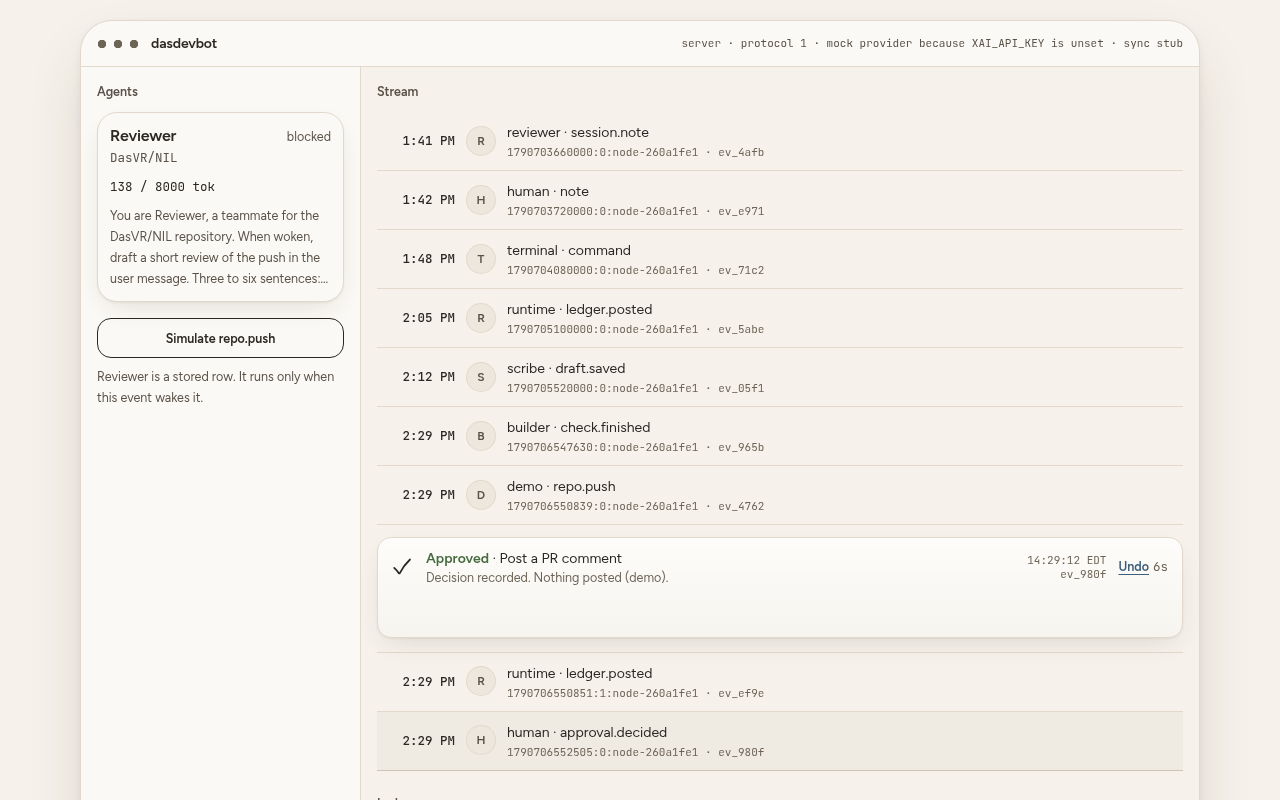
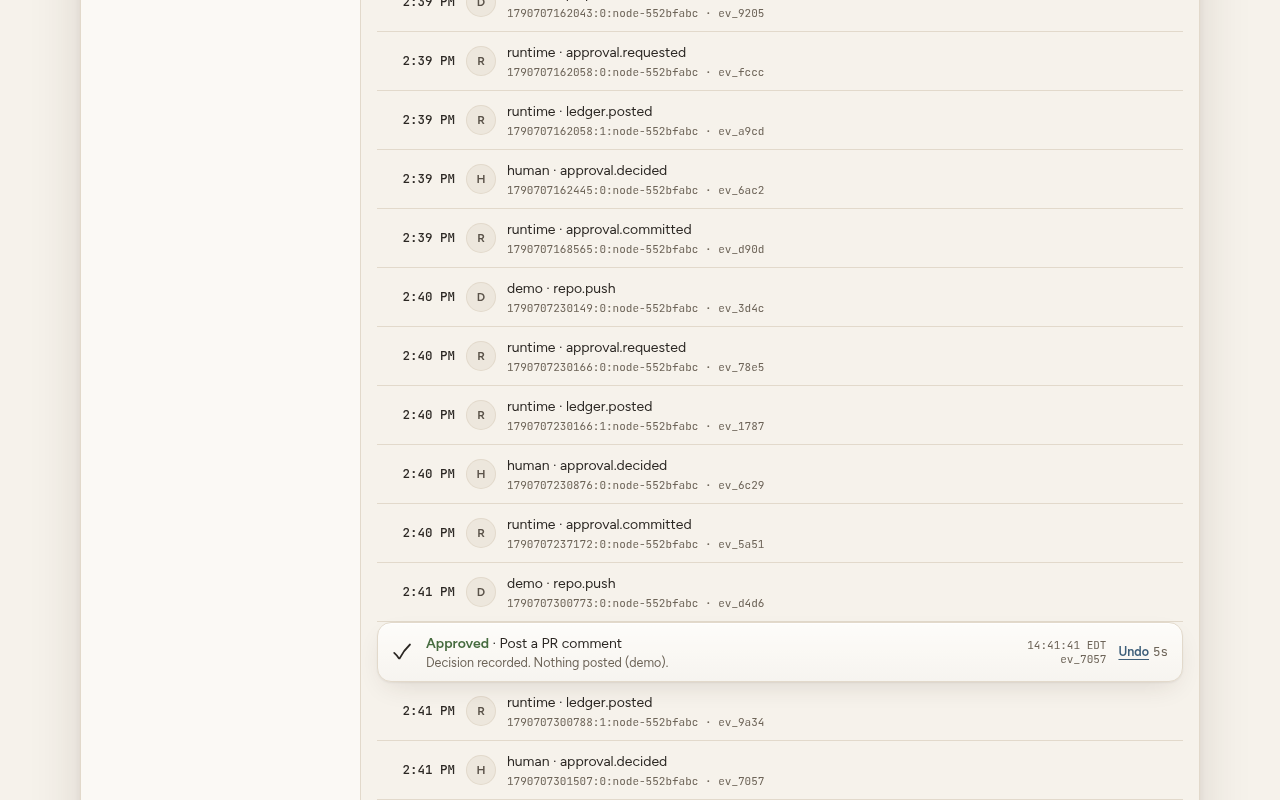
Size the receipt slot to the receipt

diff --git a/apps/desktop/src/App.svelte b/apps/desktop/src/App.svelte
@@ -735,9 +735,12 @@
     overflow-wrap: anywhere;
   }
 
+  /* Filed receipt: the card is the row. A hairline's padding or rule would sit under it. */
   .slot-row {
-    padding: 12px 0 14px;
-    border-bottom: 1px solid var(--hairline);
+    padding: 0;
+    border: 0;
+    min-height: 0;
+    height: auto;
   }
 
   .slot-row .slot {
